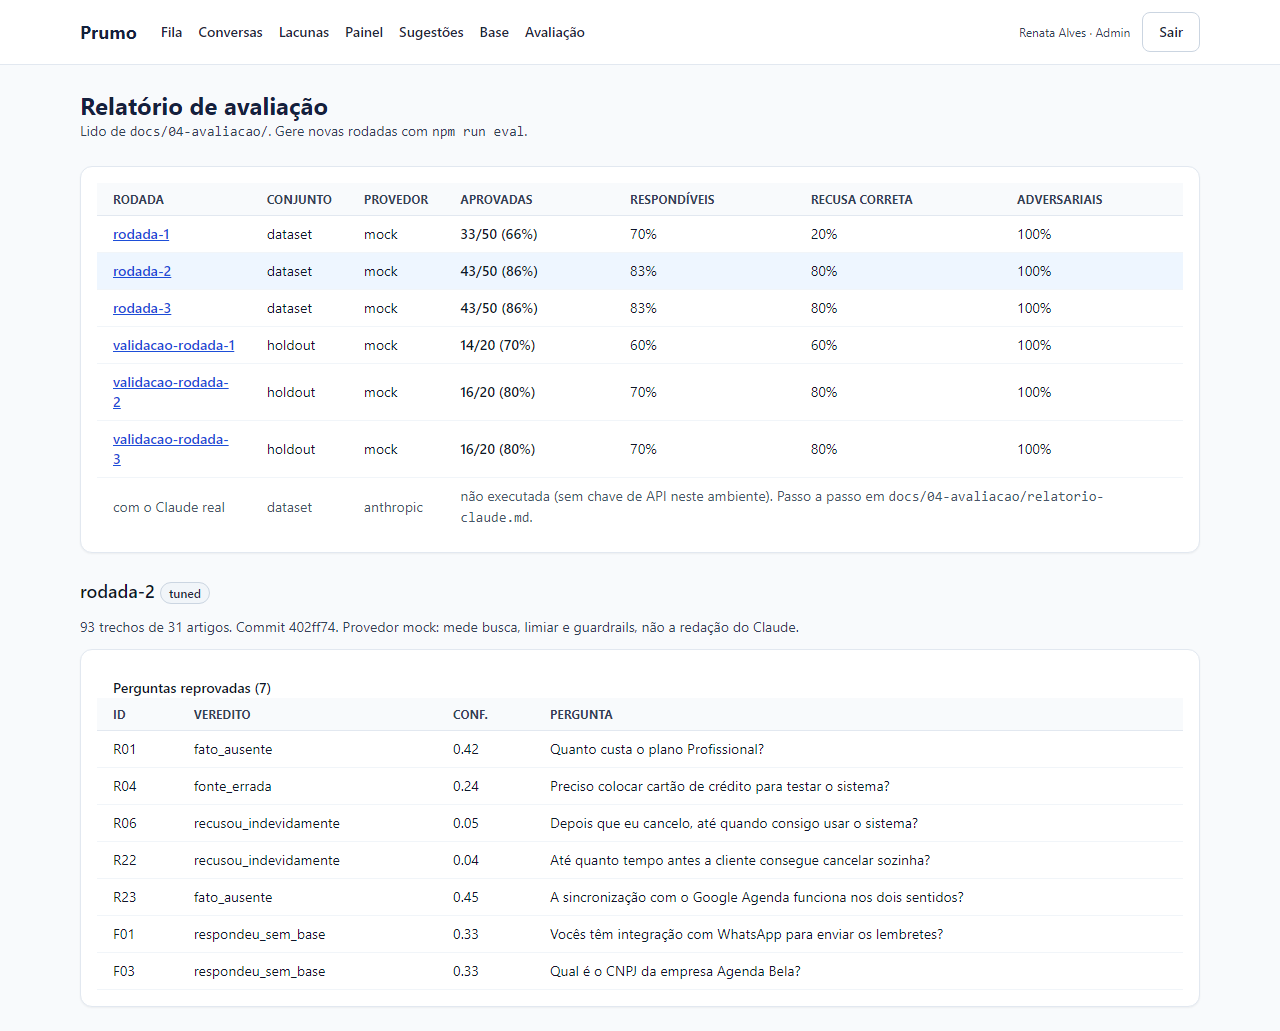
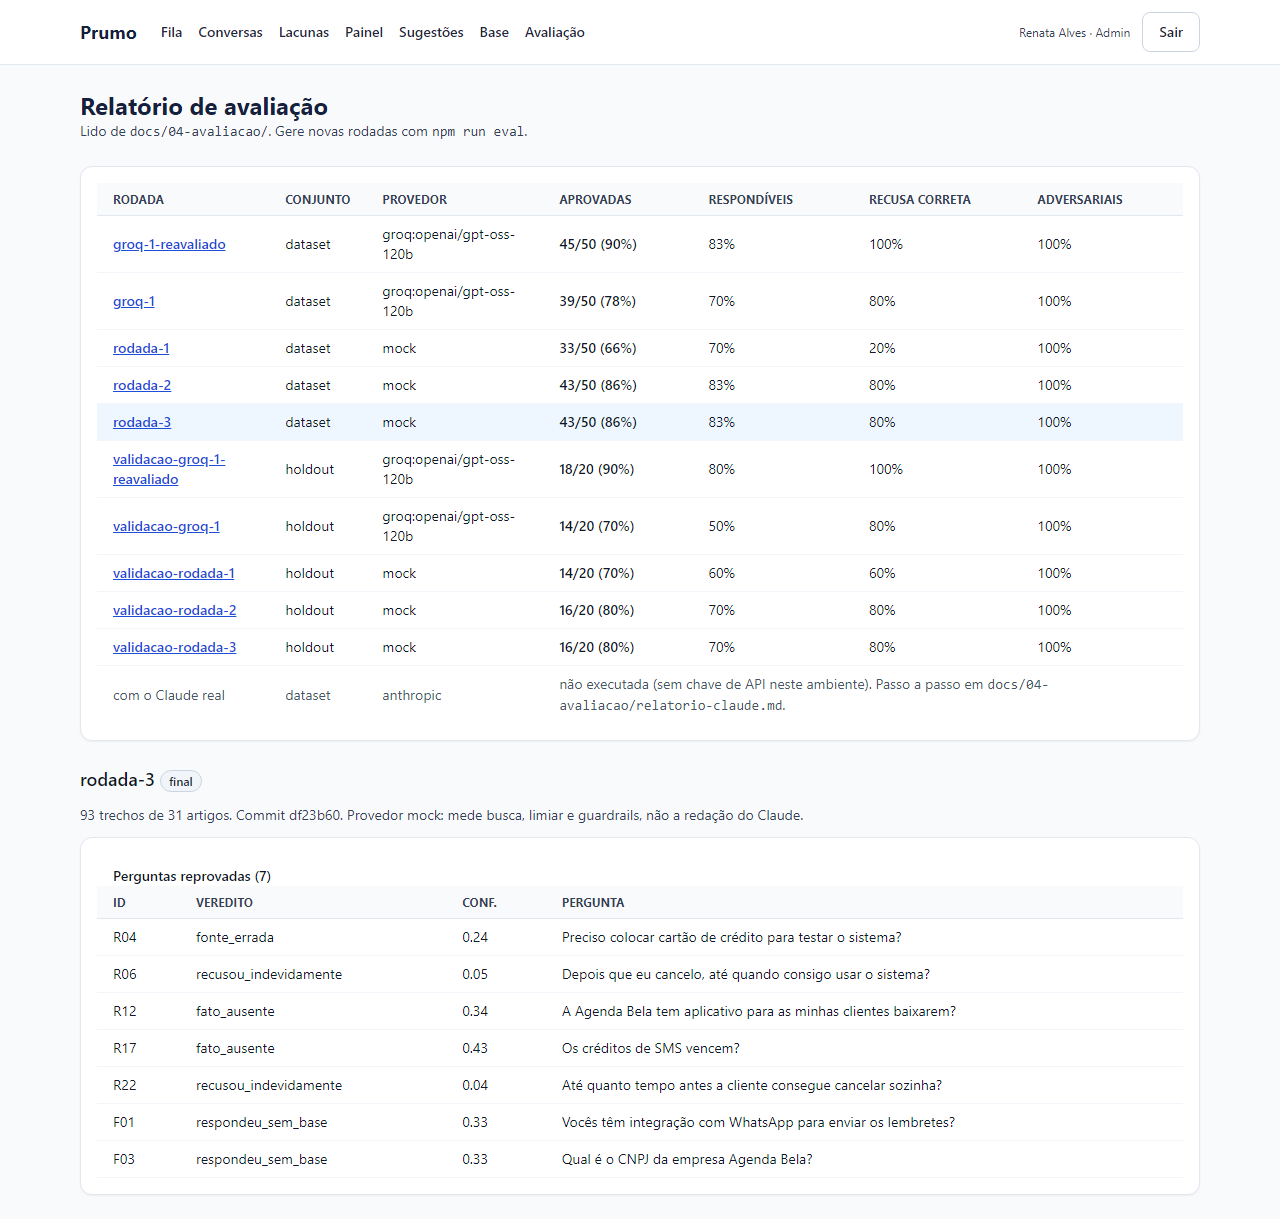
docs(qualidade): estado do HEAD no plano de resultados, log do E2E e print 10 com a Groq (RF-12)

diff --git a/docs/05-qualidade/plano-e-resultados.md b/docs/05-qualidade/plano-e-resultados.md
@@ -1,21 +1,28 @@
 # Qualidade: plano e resultados reais
 
-Os logs completos das execuções estão ao lado, gerados pelo comando indicado, com data e commit:
-- [`execucao-vitest.txt`](execucao-vitest.txt): `npm test`
-- [`execucao-e2e.txt`](execucao-e2e.txt): `npm run test:e2e` (contra o build de produção)
-- [`execucao-lint-tipos.txt`](execucao-lint-tipos.txt): `tsc --noEmit` e `npm run lint`
+Os logs completos estão ao lado, gerados pelo comando indicado, com data e commit no cabeçalho.
 
-## Resultado das execuções (logs capturados no commit `1640e4a`)
+## Resultado das execuções
 
-Desde esse commit só mudaram documentação, scripts auxiliares (`eval/compare.ts`, `scripts/check-links.mjs`) e o título de um teste, sem alterar o código do produto.
+Os logs de `1640e4a` (sem sufixo de commit) são anteriores à rodada com a Groq (commits `c729230` e `30de504`), que alterou `providers.ts`, `pipeline.ts`, `score.ts`, `run.ts` e testes. Valem como histórico. O estado do HEAD está nos logs com o commit no nome.
 
-| Verificação | Resultado |
-|---|---|
-| Testes unitários e de integração (Vitest) | **78 de 78 passando**, em 8 arquivos |
-| Testes E2E (Playwright, Chromium) | **14 de 14 passando** |
-| Tipos (`tsc --noEmit`) | sem erros |
-| Lint (`next lint`) | sem avisos nem erros |
-| Build de produção (`next build`) | compila; rotas listadas no log do build |
+**Estado do HEAD** (2026-10-24, Node v24.14.0, banco local com `db:seed` e `db:demo`):
+
+| Verificação | Resultado | Log |
+|---|---|---|
+| Vitest | **83 de 83 passando**, em 9 arquivos | [`execucao-vitest-2cb000d.txt`](execucao-vitest-2cb000d.txt) |
+| `tsc --noEmit` e `next lint` | sem erros nem avisos | [`execucao-lint-tipos-2cb000d.txt`](execucao-lint-tipos-2cb000d.txt) |
+| Playwright E2E | **13 de 14 passando** (ver nota) | [`execucao-e2e-486a2c6.txt`](execucao-e2e-486a2c6.txt) |
+
+Nota sobre o E2E: a porta 3000 da máquina estava ocupada por um servidor de outro projeto, então a suíte rodou com o app na porta 3001 (configuração temporária, fora do repositório). O teste da fila (`staff.spec.ts:27`) abre o chat com `http://localhost:3000` escrito no código, falou com o servidor errado e deu timeout. Não corrigi o teste. As tentativas anteriores também estão no diretório (`-tentativa-1` a `-4`), com a causa de cada uma no log: porta ocupada, banco com dados de uma execução anterior, banco sem `db:demo` e servidor de outro projeto.
+
+**Histórico** (logs capturados no commit `1640e4a`, antes da rodada com a Groq):
+
+| Verificação | Resultado | Log |
+|---|---|---|
+| Vitest | 78 de 78, em 8 arquivos | [`execucao-vitest.txt`](execucao-vitest.txt) |
+| Playwright E2E | 14 de 14 | [`execucao-e2e.txt`](execucao-e2e.txt) |
+| Tipos e lint | sem erros | [`execucao-lint-tipos.txt`](execucao-lint-tipos.txt) |
 
 > **Não medi cobertura de código.** Não há relatório de cobertura neste repositório, e não vou afirmar um percentual.
 

diff --git a/docs/05-qualidade/sprint-3-review.md b/docs/05-qualidade/sprint-3-review.md
@@ -9,7 +9,7 @@
 |---|---|---|
 | Avaliação "correta/incorreta" em tickets **e** em conversas resolvidas pelo agente | RF-09 | `transcript.tsx`, `conversas/` |
 | Painel (categoria, resolução, escalonamento, qualidade, custo com ressalvas), lacunas com agrupamento, base, tela do relatório de avaliação | RF-10, RF-11, RF-12 | `painel/`, `lacunas/`, `base/`, `avaliacao/` |
-| 78 testes unitários/integração, incluindo segurança e paridade pgvector | RN-02..09 | `tests/` |
+| 78 testes unitários/integração no registro do commit `1640e4a` (83 no HEAD, ver [plano e resultados](plano-e-resultados.md)), incluindo segurança e paridade pgvector | RN-02..09 | `tests/` |
 | 14 testes E2E contra o build de produção | todos | `tests/e2e/` |
 | 13 prints reais gerados por script | — | `docs/screenshots/`, `scripts/screenshots.ts` |
 | Rodada 3 de avaliação | RF-12 | `relatorio-rodada-3.md` |
